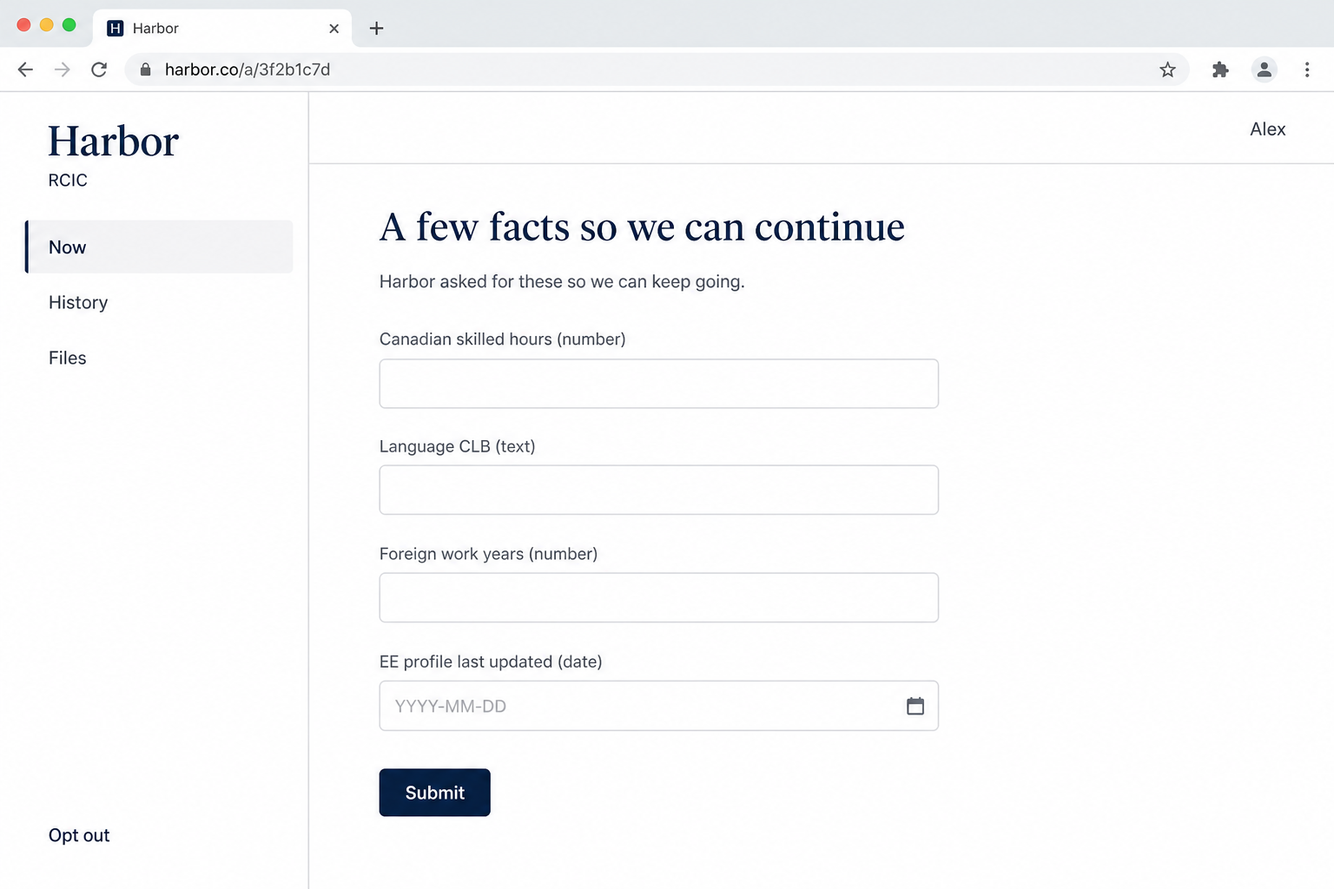
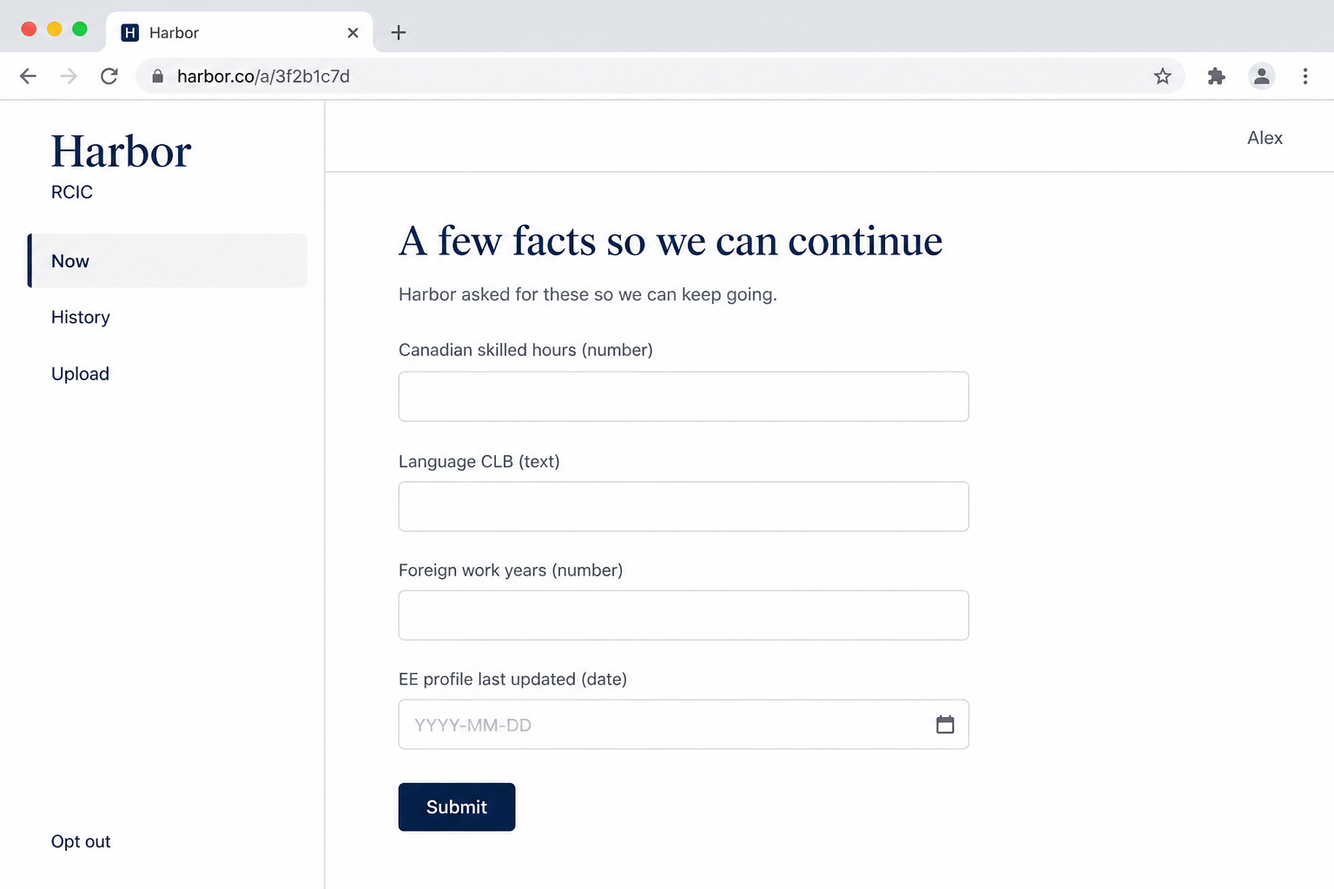
Contact plates: Now states, History as requests, Upload Automations can hear
Draw the justified interiors for the contact workspace lock — Now as form / consent / book, History as the request trail, Upload as put-in with Files as the store, and Automations listening to Contact uploaded information (Global / this kind) without collapsing it with import or form-submitted.

diff --git a/docs/register/CONTACT-UI-BLUEPRINT.md b/docs/register/CONTACT-UI-BLUEPRINT.md
@@ -2,42 +2,150 @@
 
 **Seat:** Product Manager.  
 **Flag:** [`PHASE-TWO-LOG.md`](./PHASE-TWO-LOG.md) **15:43 UTC**. Law: [`CONTACT-FACE.md`](./CONTACT-FACE.md).  
-**Chrome:** firm workspace. **Not** Operator House-global. **Not** the Ant Contact 10-item flipper. Screenshot live Contact only to know what **not** to copy.
+**Chrome:** firm workspace. **Not** Operator House-global. **Not** the Ant Contact 10-item flipper. Screenshot live Contact only to know what **not** to copy.  
+**Design system:** founder likes this workspace and will ask for a recut to the live Ant desk later. **Do not regenerate for match until asked.** These plates spec **what the modules are**, not the final paint.
+
+Harbor / Alex / `harbor.co/a/…` / the four fields / kind names = **example**.
 
 ---
 
 ## Canon lineup
 
+Read in this order.
+
 | # | File | What it is |
 |---|------|------------|
-| **P1** | [`P1-contact-workspace-now.png`](./contact-blueprint/P1-contact-workspace-now.png) | The workspace. Left panel: **Now · History · Files**. Now selected. Data-request form **in** Now. Opt out at the foot. No login. |
-| **P1b** | [`P1b-contact-workspace-history.png`](./contact-blueprint/P1b-contact-workspace-history.png) | Same chrome. **History** selected. Light chronology. |
 | **P0** | [`P0-contact-ct-portal-built.png`](./contact-blueprint/P0-contact-ct-portal-built.png) | **What CT built.** Copy **only** the 10-item Client portal sider. Interior is generated drift — not Consent spec. |
-| **P2** | [`P2-contact-needs-vs-built.png`](./contact-blueprint/P2-contact-needs-vs-built.png) | Outcomes → what they birthed → CT 10 vs P1. Diagram. |
+| **P2** | [`P2-contact-needs-vs-built.png`](./contact-blueprint/P2-contact-needs-vs-built.png) | **Prior** for outcomes → CT 10 vs early P1. Nav on that Harbor card still says History / Files. Upload + three doors → **P9**. |
+| **P1-prior** | [`P1-prior-files-nav.png`](./contact-blueprint/P1-prior-files-nav.png) | First Now. Left panel **Now · History · Files**. Kept so the recut is visible. |
+| **P1** | [`P1-contact-workspace-now.png`](./contact-blueprint/P1-contact-workspace-now.png) | **Canonical Now.** Left panel **Now · History · Upload**. Data-request form **in** Now. Opt out at the foot. No login. |
+| **P3** | [`P3-contact-workspace-now-consent.png`](./contact-blueprint/P3-contact-workspace-now-consent.png) | Now · **Consent** state. Agree / Ignore. Not its own nav item. |
+| **P4** | [`P4-contact-workspace-now-book.png`](./contact-blueprint/P4-contact-workspace-now-book.png) | Now · **Meeting book** state. Slot list. Confirm booking. |
+| **P10** | [`P10-contact-email-lands-now.png`](./contact-blueprint/P10-contact-email-lands-now.png) | **C16 → Now.** Channel is not nav. The link opens the workspace on the current objective. |
+| **P1b-prior** | [`P1b-prior-activity-log.png`](./contact-blueprint/P1b-prior-activity-log.png) | First History. Mixed email + submit log. **Wrong.** Kept so the recut is visible. |
+| **P1b** | [`P1b-contact-workspace-history.png`](./contact-blueprint/P1b-contact-workspace-history.png) | **Canonical History.** Requests — the asks that prompted outreach. Not the outreach log. |
+| **P5** | [`P5-contact-workspace-history-request.png`](./contact-blueprint/P5-contact-workspace-history-request.png) | One request **opened**. The ask itself. “The email is not here.” |
+| **P6** | [`P6-contact-workspace-upload.png`](./contact-blueprint/P6-contact-workspace-upload.png) | **Upload.** Contact puts information in. Tabs: Put in · Files. Kinds as cards (submodules). |
+| **P7** | [`P7-contact-workspace-upload-kind.png`](./contact-blueprint/P7-contact-workspace-upload-kind.png) | Kind modal. Any / this kind. Local listen = this kind. |
+| **P8** | [`P8-contact-workspace-upload-files.png`](./contact-blueprint/P8-contact-workspace-upload-files.png) | Files **inside** Upload. The store. Sitting there is not an event. |
+| **P9** | [`P9-contact-three-doors.png`](./contact-blueprint/P9-contact-three-doors.png) | **Diagram.** Now / Upload / Files doors + History. Do not collapse. |
+| **P11** | [`P11-three-events-not-collapsed.png`](./contact-blueprint/P11-three-events-not-collapsed.png) | **Diagram.** Form submitted ≠ Contact uploaded information ≠ Contact import. |
 
-**Not drawn this stamp:** Files interior. Consent / booking as Now states. Do not generate a PNG per module.
+**Operator Automations (same lock, other folder):** [`A41`](./automations-blueprint/A41-trigger-contact-uploaded.png) · [`A42`](./automations-blueprint/A42-trigger-uploaded-global.png) · [`A43`](./automations-blueprint/A43-trigger-uploaded-local-kind.png) · [`A44`](./automations-blueprint/A44-canvas-uploaded-reevaluate.png). Lineup: [`AUTOMATIONS-UI-BLUEPRINT.md`](./AUTOMATIONS-UI-BLUEPRINT.md).
 
-Harbor / Alex / `harbor.co/a/…` / the four fields = **example**.
+**PM lean drawn:** left panel stays **three** entries. Files is a tab under Upload. If browse-without-put must stand alone, Files becomes a fourth sibling — that ask is still open; these plates show the lean.
 
 ---
 
-### P1 — Now
+### P1 — Now (canonical)
 
 ![P1 Now](./contact-blueprint/P1-contact-workspace-now.png)
 
-**Copy:** Three nav entries. Now = current ask (this form). Firm wordmark. Opt out. No login.
+**Copy:** Three nav entries: **Now · History · Upload**. Now = current ask (this form). Firm wordmark. Opt out. No login.
 
-**Ignore:** Example names. Browser chrome.
+**Ignore:** Example names (Harbor, Alex, the four fields). Browser chrome. Selected-state paint (gray bar vs solid navy) drifting plate to plate.
 
 ---
 
-### P1b — History
+### P3 — Now · Consent
+
+![P3 Consent](./contact-blueprint/P3-contact-workspace-now-consent.png)
+
+**Copy:** Consent is a **state of Now**. Agree / Ignore. Clear instruction of what we need now. Same three nav entries.
+
+**Ignore:** Exact consent paragraph. Teaching caption at the foot (bucket 2).
+
+---
+
+### P4 — Now · Meeting book
+
+![P4 Book](./contact-blueprint/P4-contact-workspace-now-book.png)
+
+**Copy:** Meeting book is a **state of Now**. Slot list. Confirm booking. First thing they see.
+
+**Ignore:** Exact slot times. Teaching caption.
+
+---
+
+### P10 — The link lands in Now
+
+![P10 Lands](./contact-blueprint/P10-contact-email-lands-now.png)
+
+**Copy:** C16 still goes out. Click opens **this workspace on Now**, with that ask open. Channel messages are not left-panel entries.
+
+**Ignore:** Cropped Gmail furniture. Harbor copy.
+
+---
+
+### P1b — History = requests
 
 ![P1b History](./contact-blueprint/P1b-contact-workspace-history.png)
 
-**Copy:** History is a light list of what happened with the firm. Same three entries.
+**Copy:** History is a list of **requests** (facts / consent / meeting book). Outstanding vs done. Not “Harbor sent an email.”
 
-**Ignore:** Exact row copy. Search if it appeared. Maple-leaf / icon drift vs P1.
+**Ignore:** Exact row copy. Teaching caption. Icons drifting vs P1.
+
+**Prior (wrong):** [`P1b-prior-activity-log.png`](./contact-blueprint/P1b-prior-activity-log.png) mixed Email / You submitted. Do not build that log.
+
+---
+
+### P5 — A request opened
+
+![P5 Request](./contact-blueprint/P5-contact-workspace-history-request.png)
+
+**Copy:** Opening a History row shows **the ask**, not the send. Outstanding can **Open in Now**.
+
+**Ignore:** The metadata block layout. Teaching captions.
+
+---
+
+### P6 — Upload (the act)
+
+![P6 Upload](./contact-blueprint/P6-contact-workspace-upload.png)
+
+**Copy:** Upload is a **module**. Contact **puts information in**. Tabs: **Put in** (the act) · **Files** (the store). Kinds exist as submodules, not extra nav.
+
+**Ignore:** The three card titles as a frozen kind catalog (“Documents” / “Facts they weren’t asked for now” / “Other” are teaching). Drop-zone copy. Teaching caption.
+
+---
+
+### P7 — Kind (this kind)
+
+![P7 Kind](./contact-blueprint/P7-contact-workspace-upload-kind.png)
+
+**Copy:** Upload can be **any** type or a **specific kind**. That kind is what Automations Local hears. Modal / submodule — not a Rule on this canvas.
+
+**Ignore:** The listed kinds (Passport / Proof of hours / Language test / Other) = **example**. Not the catalog.
+
+---
+
+### P8 — Files (the store, inside Upload)
+
+![P8 Files](./contact-blueprint/P8-contact-workspace-upload-files.png)
+
+**Copy:** Files is where that information **lives after**. Same module as Upload. Sitting there is **not** an event.
+
+**Ignore:** Filenames. Dates. “Put in more” label.
+
+---
+
+### P9 — Three doors + History
+
+![P9 Doors](./contact-blueprint/P9-contact-three-doors.png)
+
+**Copy:** Now / Upload / Files are **three doors**. History is the request trail. Automations hears Upload. Do not put a Rule on the contact canvas. Now’s form stays self-reportable-only.
+
+**Ignore:** Card chrome. Arrow placement.
+
+---
+
+### P11 — Three events, not collapsed
+
+![P11 Events](./contact-blueprint/P11-three-events-not-collapsed.png)
+
+**Copy:** **Form submitted** (Now) ≠ **Contact uploaded information** (Upload) ≠ **Contact import** (operator book-in). Named on purpose.
+
+**Ignore:** Icons. Card numbers.
 
 ---
 
@@ -51,15 +159,22 @@ Harbor / Alex / `harbor.co/a/…` / the four fields = **example**.
 
 ---
 
-### P2 — needs vs built vs P1
+### P2 — needs vs built (prior)
 
 ![P2 compare](./contact-blueprint/P2-contact-needs-vs-built.png)
 
-**Copy:** Four outcomes. Channel vs page vs chrome. Now = always the objective. History / Files not outcome-born.
+**Copy:** Four outcomes. Channel vs page vs chrome. Now = always the objective.
+
+**Ignore:** Harbor card still saying History / Files without Upload — superseded by P1 + P9.
 
 ---
 
 ## What this is not
 
-- Not C16 (Gmail). Not A40 (operator). Not planting the Ant Contact sider.
-- Not Files drawn — only named in the nav.
+- Not C16 as the workspace (C16 is the email). Not A40 (operator form occupancy).
+- Not planting the Ant Contact sider.
+- Not a design-system recut of Harbor paint.
+- Not minting an upload / files table from the pictures.
+- Not a frozen kind catalog from P6 / P7.
+- Not Files as a fourth left-nav item on the canonical plates (lean; ask still open).
+- Not a Rule / Automations canvas on the contact seat — that is **A41–A44**.

diff --git a/docs/register/AUTOMATIONS-UI-BLUEPRINT.md b/docs/register/AUTOMATIONS-UI-BLUEPRINT.md
@@ -83,6 +83,10 @@ These files are **chosen**. Later plates revise earlier ones only where the tabl
 | **A35** | [`A35-add-tag-parameters.png`](./automations-blueprint/A35-add-tag-parameters.png) | chrome | **Add tag** Action interior. Prior = contact import. Contact occupied, Tag picker. Type glyphs. Color more lively. Green Action chip. Kind chips teaching. | 12:12 · 12:17 · 12:30 | Packet [`ADD-TAG-PACKET.md`](./ADD-TAG-PACKET.md) |
 | **A24** | [`A24-contact-import-output.png`](./automations-blueprint/A24-contact-import-output.png) | chrome | Trigger **Output** of **contact import**. A20 shape. This run: `import_batch` + `contact_records`. | 19:34 | — |
 | **A25** | [`A25-new-contact-output.png`](./automations-blueprint/A25-new-contact-output.png) | chrome | Trigger **Output** of **new contact**. A20 shape. This run: `contact_records` (that person). | 19:34 | — |
+| **A41** | [`A41-trigger-contact-uploaded.png`](./automations-blueprint/A41-trigger-contact-uploaded.png) | chrome | Trigger select. **Contact uploaded information** in the named-event list. Distinct from **Contact import**. Grain Global. | 2026-08-21 | companion to **A26**. Does not recut the select packet. |
+| **A42** | [`A42-trigger-uploaded-global.png`](./automations-blueprint/A42-trigger-uploaded-global.png) | chrome | Trigger configured. Event = **Contact uploaded information**. Grain **Global** = every firm, every upload, any kind. | 2026-08-21 | companion to **A17** |
+| **A43** | [`A43-trigger-uploaded-local-kind.png`](./automations-blueprint/A43-trigger-uploaded-local-kind.png) | chrome | Same event. Grain **Local**. Nested shape: Firm, then **Kind** (this kind). | 2026-08-21 | Local completes A26; this plate is **this event’s** instance axis |
+| **A44** | [`A44-canvas-uploaded-reevaluate.png`](./automations-blueprint/A44-canvas-uploaded-reevaluate.png) | chrome | Canvas. Hear upload → Rule (re-evaluate) → Action. Same Automations middle. Not a Rule on the contact canvas. | 2026-08-21 | companion to **A15** / **A22** |
 
 **Why A10 / A13 are in the lineup and still not chrome:** they are the **idea** of output classes as a lattice. They are not Operator screens. The DAG piece that does that fork is the **If / condition node**, now on the glass as **A16**. Keep both diagrams so the evolution (hole → listing) is visible. Do not ascribe A13 as a screen.
 
@@ -104,6 +108,7 @@ In-app Ant Automations workbench is **not** this blueprint. Mock = generated ima
 - **A31 / A32** interiors are **strong** (occupancy; Input rail + resize grip). Background / sider / extra chrome on those files is far off the current design system. **Do not copy the background. Do not skip the interiors.** Packet [`MAPPED-BOX-PACKET.md`](./MAPPED-BOX-PACKET.md).
 - **A33** chrome may drift. Trust the **grouped list**. Desk = live `/prototype-ant` + **A22**. Live three-row `02-in-app-by-module.png` is the first pass, not the inventory.
 - **A35** chrome may drift (sider). Trust: Input **type glyphs**, **color (more lively than live — that is the product)**, green **Action** chip under the title, **Contact occupancy + Tag picker**. **Kind · In the application** chips on that PNG are teaching — do not build.
+- **A41–A44** catalog titles / selected-row mismatch are generated drift. Trust the **event name**, Grain, and the canvas chain. Desk chrome = **A22**. Kind labels on A43 (Language test) are **example**. Rule on A44 is the named re-evaluate operation — not a new in-app Action row on **A33**. Do not invent a Re-evaluate button.
 
 ---
 
@@ -892,6 +897,60 @@ Fallback: if Ant has no Rule GUI (it does not), the picture is still the face. H
 **Stale pixel:** left-tree folder names. Trust **rows + Add path**.
 
 **Not this plate:** If interior. Canvas fan (A37).
+
+---
+
+### A41 — Trigger select includes Contact uploaded information
+
+![A41 Contact uploaded in the event list](./automations-blueprint/A41-trigger-contact-uploaded.png)
+
+**Rationale (2026-08-21):** Founder: whenever a contact uploads information — any type, or a **certain kind** — Automations can hear it. Named **Contact uploaded information** on purpose. Same A26 picker. **Contact import** stays a different row.
+
+**On the glass:** Event list. **Contact uploaded information** selected. Contact import still visible, not selected. Grain = Global.
+
+**Do not build:** collapsing this row with Contact import. Recutting A26’s packet. Filling a giant event catalog beyond named listens.
+
+**Stale pixel:** workflow title in the catalog. Teaching caption “Not contact import. Different seat.” = bucket 2.
+
+**Not this plate:** Local (**A43**). Canvas chain (**A44**). Contact workspace Upload (**P6**).
+
+---
+
+### A42 — Grain Global (all uploads)
+
+![A42 Global](./automations-blueprint/A42-trigger-uploaded-global.png)
+
+**On the glass:** Event = Contact uploaded information. Grain **Global**. Helper: every firm, every upload, any kind. Who this run is about = the contact who put information in.
+
+**Do not build:** treating “Who this run is about” copy as a new control family.
+
+**Stale pixel:** catalog still highlighting another workflow. Trust the **modal**.
+
+---
+
+### A43 — Grain Local (this kind)
+
+![A43 Local this kind](./automations-blueprint/A43-trigger-uploaded-local-kind.png)
+
+**On the glass:** Grain **Local**. Nested dropdowns of that event’s existing shape: Firm (Select-firm primitive) then **Kind**. Local = this kind.
+
+**Do not build:** a new picker family per event. Dumping every possible dropdown at once as the product (nested; next appears after this layer). Freezing “Language test” as a system kind.
+
+**Not this plate:** Global (**A42**). Contact kind modal (**P7**) is the **contact** putting a kind in — same grain, other seat.
+
+---
+
+### A44 — Hear upload → re-evaluate
+
+![A44 Canvas](./automations-blueprint/A44-canvas-uploaded-reevaluate.png)
+
+**On the glass:** Trigger **Contact uploaded information** → Rule (eligibility / re-evaluate) → Action. Same Automations definite middle.
+
+**Do not build:** a Rule on the contact workspace. A new A33 row named Re-evaluate (law 41: only if that module already has the button). Teaching caption.
+
+**Stale pixel:** Action title “Assign sequence - or Agents”. Trust the **chain**, not the example Action.
+
+**Not this plate:** Trigger interior (A41–A43). Contact Upload (P6).
 
 ---
 

diff --git a/docs/register/CONTACT-FACE.md b/docs/register/CONTACT-FACE.md
@@ -47,13 +47,12 @@
 |-------|--------------|------------|
 | **Now** | **Need** | Always the **objective** — what we need from them now |
 | **History** | **Need** (reason named) | History of **requests** — the asks that prompted outreach. Not the outreach log |
-| **Upload** | **Need** (function named) | Contact **puts information into the system**. Any type, or a specific kind. Submodules later. This is what Automations **hears** |
-| **Files** | Store | Where that information **lives** after. Not the act. Not Now’s form |
+| **Upload** | **Need** (function named) | Contact **puts information into the system**. Any type, or a specific kind. Submodules / kinds. This is what Automations **hears**. **Files** is the store **inside** this module (tab), not a fourth left-panel item on the canonical plates |
 
 5. **Opt out** is chrome — How Silence. Not a module.
 6. **On behalf of the firm.** Harbor in the pictures is **example**. Same grain as C16.
 7. **Touchpoints still exist.** Email still goes out (C16). The link **lands in this workspace**, on Now, with that ask open. Channel messages are **not** nav.
-8. **Do not build everything now.** Do not open Furnish. Do not regenerate plates for design-system match until asked.
+8. **Do not build everything now.** Do not open Furnish. Do not regenerate plates for design-system match until asked. Module interiors **are** drawn (P3–P11, A41–A44).
 9. **Three doors. Do not collapse them.**
 
 | Door | Who starts | What it is | Event Automations hears |
@@ -66,7 +65,7 @@ Upload can have kinds (modals / submodules). Global = all uploads. Local = **thi
 
 **Now’s form stays self-reportable-only** (Refresh How). Document-dependent never enter that form. Upload is the other door for information that is not that form.
 
-**PM on Files vs Upload:** Upload is the **function** (and the event). Files is the **store**. Same family. Not a fourth unrelated module — Files sits with Upload (submodule / second view) unless we later need browse-without-put as its own entry. History stays. Now stays. Left panel stays light: **Now · History · Upload** (Files inside Upload). Ask if Files must stay a sibling.
+**PM on Files vs Upload (drawn):** Upload is the **function** (and the event). Files is the **store**. Canonical plates: left panel **Now · History · Upload**; Files is a tab inside Upload (**P6 · P8**). If browse-without-put must stand alone, Files becomes a fourth sibling — still the ask. Prior P1 with Files in the nav is kept as [`P1-prior-files-nav.png`](./contact-blueprint/P1-prior-files-nav.png).
 
 **Old paper (honest):** [`personas.md`](./personas.md) said contact is referenced, not a persona, touchpoint-only. [`OUTCOMES.md`](./OUTCOMES.md) still has four **Engagement contact** outcomes (all secondary). Founder: it is a **natural persona**. This seat uses those four outcomes to birth modules. Approach still does not acquire them (World). Do not copy the consultant desk. Do not overwrite 15:43.
 
@@ -87,7 +86,7 @@ Upload can have kinds (modals / submodules). Global = all uploads. Local = **thi
 
 **Furnish / Enrichment:** 20 contact-cants + 20 furnish, planted on that flipper. **Wait.** Needs/modules first.
 
-Compare plates: [`P0`](./contact-blueprint/P0-contact-ct-portal-built.png) (CT as built — **copy the 10-item sider only**; interior drifted) · [`P2`](./contact-blueprint/P2-contact-needs-vs-built.png) (needs vs built vs P1).
+Compare plates: [`P0`](./contact-blueprint/P0-contact-ct-portal-built.png) (CT as built — **copy the 10-item sider only**; interior drifted) · [`P2`](./contact-blueprint/P2-contact-needs-vs-built.png) (needs vs built — **prior**; Upload/doors → **P9**). Lineup: [`CONTACT-UI-BLUEPRINT.md`](./CONTACT-UI-BLUEPRINT.md).
 
 **Not this workspace:** Prepared workspace (consultant activation). Consultant Board / Client Data. Operator libraries.
 
@@ -103,3 +102,4 @@ Compare plates: [`P0`](./contact-blueprint/P0-contact-ct-portal-built.png) (CT a
 - Not Gmail. C16 stays the email. This is after they click.
 - Not collapsing **Upload** with **Now’s form submitted**, or with **operator contact-file import**.
 - Not regenerating P1 for design-system match until asked.
+- Not freezing P6/P7 kind titles as the kind catalog.

diff --git a/docs/register/IMAGE-CAPTION-AUDIT.md b/docs/register/IMAGE-CAPTION-AUDIT.md
@@ -513,6 +513,44 @@ You mess it up if you:
 - Put founder captions into Postgres
 - Treat A7’s background **Branch** as the smallest workflow
 - Treat A8’s blank form builder or chevrons as canon (A12 / A14)
+- Freeze P6/P7 kind titles (Documents / Passport / Language test) as the Upload kind catalog
+- Collapse Contact uploaded information with Contact import or Form submitted
+- Put a Rule on the contact workspace because A44 shows one on Automations
+
+---
+
+## Contact workspace plates (P1–P11) — 2026-08-21
+
+Harbor / Alex / `harbor.co/a/…` / four listing fields = **E** on every plate. Teaching italic captions = **C**. Opt out at the sider foot = **S** (Silence chrome). Left panel **Now · History · Upload** = **S**. Browser chrome = ignore.
+
+| Plate | S | E | C |
+|-------|---|---|---|
+| **P1** Now form | Now holds the current ask (form). Three nav. Submit. | Harbor, field labels | — |
+| **P3** Now consent | Agree / Ignore. Consent is a Now state | Harbor stay-in-touch copy | “Consent is a state of Now…” |
+| **P4** Now book | Slot pick + Confirm booking. Book is a Now state | Slot times | “Meeting books show in Now…” |
+| **P10** lands | Link from C16 opens workspace Now | Gmail crop, Harbor email copy | “Channel is not nav…” |
+| **P1b** History | Rows are **requests**, not emails. Outstanding vs done | Row titles | “History is the requests. Not the outreach.” |
+| **P5** request open | Opened row = the ask. Open in Now | Metadata labels | “The email is not here.” / “Not the send.” |
+| **P6** Upload | Module. Put in vs Files tabs. Kinds as submodules | Card titles “Documents / Facts they weren’t asked for now / Other” | “Upload is the act…” |
+| **P7** kind | Any vs this kind. Modal. Automations Local = this kind | Passport / Proof of hours / Language test / Other | “Kinds are submodules…” |
+| **P8** Files | Store inside Upload. Not an event | Filenames | “Sitting here is not an event.” |
+| **P9** diagram | Three doors + History law | Card paint | Footer commands |
+| **P11** diagram | Three events stay distinct | Icons | Title |
+
+**Priors (do not build):** [`P1-prior-files-nav.png`](./contact-blueprint/P1-prior-files-nav.png) (Files as sibling nav) · [`P1b-prior-activity-log.png`](./contact-blueprint/P1b-prior-activity-log.png) (email log).
+
+## Automations A41–A44 — 2026-08-21
+
+Shared Operator chrome = same **S** as the rest of this file. Catalog workflow titles = **E** / drift.
+
+| Plate | S | E | C |
+|-------|---|---|---|
+| **A41** | Named event **Contact uploaded information** in the A26 list. Distinct from Contact import. Grain Global | Workflow title Contact uploaded → re-evaluate | “Not contact import. Different seat.” |
+| **A42** | Event configured. Grain Global = every firm / every upload / any kind | Helper sentences | “Named on purpose…” |
+| **A43** | Grain Local. Nested Firm then Kind | Kind value Language test | “Local maps the event’s existing shape…” |
+| **A44** | Canvas: that trigger → Rule (re-evaluate) → Action. Not on the contact canvas | Action title Assign sequence | “Same Automations middle…” |
+
+Do not mint a Re-evaluate row on A33 from A44. Law 41.
 
 ---
 

diff --git a/docs/register/PHASE-TWO-LOG.md b/docs/register/PHASE-TWO-LOG.md
@@ -2,7 +2,7 @@
 
 **Purpose:** Running log so a new agent can start where we stopped. Thesis stays in [`PHASE-TWO.md`](./PHASE-TWO.md). Nothing is more important than this file staying current.
 
-**Current (read first, then the newest stamp at the bottom):** Agents **flagship** = 2026-08-15 15:43 UTC. Contact: **Now** = objective. **History** = **requests** (not the outreach log). **Upload** = contact puts information in (event Automations hears; this kind). **Files** = the store (with Upload). Do not regenerate plates. Do not plant.
+**Current (read first, then the newest stamp at the bottom):** Agents **flagship** = 2026-08-15 15:43 UTC. Contact workspace drawn: **Now** (form / consent / book) · **History** = requests · **Upload** (put in + Files store) · three doors · Automations **Contact uploaded information** (A41–A44). Design-system recut later. Do not plant.
 
 **How we maintain this log**
 
@@ -2053,6 +2053,34 @@ Same Automations shape: hear that → operation (re-evaluate is one) → exits. 
 **Do not:** collapse the three doors; mint an upload table this stamp; start Furnish; recut 015; overwrite 15:43; plant; regenerate P1.
 
 **Ask:** Files a sibling on the left, or inside Upload?
+
+Flag 15:43 untouched.
+
+---
+
+## 2026-08-21 11:05 UTC — Contact plates drawn. Upload + listen specified in pictures.
+
+**Why:** Founder: generate the justified images; you can never generate too many; spec as much as is justified. Design-system recut still later — these plates are **what the modules are**, not the final paint.
+
+**Drawn (contact):**
+
+| Plate | Lock |
+|-------|------|
+| **P1** recut | Nav **Now · History · Upload**. Form still in Now. Prior Files-nav kept. |
+| **P3 · P4** | Now states: Consent (Agree/Ignore) · Meeting book |
+| **P10** | C16 click **lands in Now**. Channel is not nav. |
+| **P1b** recut | History = **requests**, not the email log. Prior activity-log kept (wrong). |
+| **P5** | A request opened = the **ask**. Email is not here. |
+| **P6 · P7 · P8** | Upload = put in. Kinds (any / this kind). Files = store **inside** Upload. |
+| **P9 · P11** | Three doors. Form submitted ≠ uploaded ≠ import. |
+
+**Drawn (Automations):** **A41** event in the A26 list · **A42** Global · **A43** Local = this kind · **A44** hear upload → Rule (re-evaluate) → Action. Same middle. Not a Rule on the contact canvas. A26 packet **not** recut. A33 **not** given a new Re-evaluate row (law 41).
+
+**Wrote:** [`CONTACT-UI-BLUEPRINT.md`](./CONTACT-UI-BLUEPRINT.md) (full lineup) · [`CONTACT-FACE.md`](./CONTACT-FACE.md) · [`AUTOMATIONS-UI-BLUEPRINT.md`](./AUTOMATIONS-UI-BLUEPRINT.md) A41–A44 · [`IMAGE-CAPTION-AUDIT.md`](./IMAGE-CAPTION-AUDIT.md) (P + A41–A44). Kind titles on P6/P7/A43 = **example**.
+
+**Do not:** plant; mint upload/files tables; freeze kinds; collapse the three events; recut 015; overwrite 15:43; regenerate for Ant match until asked.
+
+**Ask (still):** Files a sibling, or inside Upload as drawn?
 
 Flag 15:43 untouched.
 
